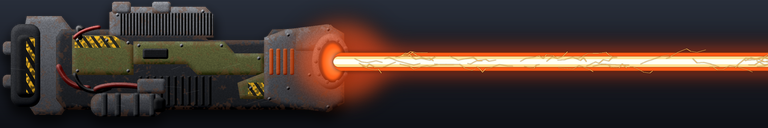
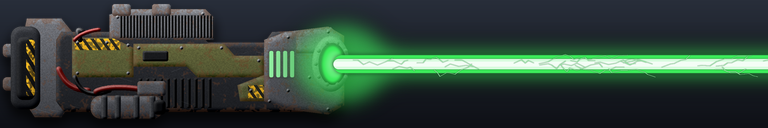
Renegade: weapon pictures for the three laser sizes (heavy green, medium blue, light red) from one drawn cannon (weapon_art.py), its body kept in weapon-images/source; spec and manual
Claude-Session: https://claude.ai/code/session_01QeCYKn7fqMf4y4C8NkAq1r

diff --git a/LevelEditor/test-data/tools/weapon_art.py b/LevelEditor/test-data/tools/weapon_art.py
@@ -1,13 +1,14 @@
 """Detailed pictures of weapons for the panel of Renegade, drawn with Pillow and numpy (no outside pictures, no AI): a metal body with bevelled plates, rust and scratches,
 hazard stripes, vents, cables and glowing parts.
 
-  python weapon_art.py [out_dir]    draws the heavy laser: weapon_laser-heavy_big.png (2900 x 700, transparent) and weapon_laser-heavy.png (the picture of a panel row: 768 x 128, the weapon and its beam over the whole width)
+  python weapon_art.py [out_dir]    draws the cannon once and makes the three sizes of the laser from it (heavy: green, medium: blue, light: red; weapon_laser-<size>.png, the picture of a panel row: 768 x 128)
+                                    and writes the body of the cannon as source/laser_cannon_body.png (default out_dir: LevelEditor/game-modes/weapon-images)
 """
 import math, os, random, sys
 import numpy as np
 from PIL import Image, ImageDraw, ImageFilter, ImageFont
 
-W, H = 2900, 700   # (wide: the beam runs far to the right, the banner of the panel row is 6 : 1)
+W, H = 4300, 800   # (wide: the beam runs far to the right, the banner of the panel row is 6 : 1)
 rng = np.random.default_rng(7)
 random.seed(7)
 
@@ -153,7 +154,8 @@ STEEL_T, STEEL_B = (132, 134, 140), (52, 54, 60)
 DARK_T, DARK_B = (58, 60, 66), (22, 24, 28)
 
 
-def heavy_laser():
+def gun_body():
+    """the laser cannon without its glow (the same body for every size; the beam and the glowing parts are added by beam_fx in the colour of the size)"""
     gun = np.zeros((H, W, 4), np.float32)
     cy = 420
 
@@ -224,7 +226,7 @@ def heavy_laser():
     muz = mask_of(poly([(1010, 330), (1090, 300), (1250, 280), (1310, 315), (1310, 575), (1250, 610), (1090, 590), (1010, 560)]))
     part(gun, muz, STEEL_T, STEEL_B, bevel=10, rust=0.14, spec=0.8)
     for x in (1030, 1056, 1082, 1108):
-        part(gun, mask_of(rrect((x, 372, x + 14, 470), 5)), (255, 140, 60), (200, 60, 24), bevel=2, grain=0.02)
+        part(gun, mask_of(rrect((x, 372, x + 14, 470), 5)), (70, 72, 78), (30, 32, 36), bevel=2, grain=0.02)
     cap = mask_of(poly([(1130, 300), (1260, 282), (1300, 322), (1300, 380), (1130, 380)]))
     part(gun, cap, (150, 152, 158), (70, 72, 78), bevel=8, rust=0.08)
     # the ring around the opening
@@ -253,41 +255,61 @@ def heavy_laser():
     out.alpha_composite(sh)
     out.alpha_composite(img)
 
-    # --- the glow inside the opening, the heat round it and the beam with its electric tendrils
+    return out
+
+
+def mix(c, white, k):
+    return tuple(int(c[i] + (white - c[i]) * k) for i in range(3))
+
+
+def beam_fx(body, color, k=1.0):
+    """the glow in the opening, the glowing vents, the heat and the beam with its electric tendrils in a colour; k = the thickness of the beam (1 = the heavy laser)"""
+    out = body.copy()
+    c1, c2, c3, c4 = color, mix(color, 255, 0.45), mix(color, 255, 0.8), mix(color, 255, 0.94)
+    # the glowing vents
+    gl_v = Image.new("RGBA", (W, H), (0, 0, 0, 0))
+    vd = ImageDraw.Draw(gl_v)
+    for x in (1030, 1056, 1082, 1108):
+        vd.rounded_rectangle((x, 372, x + 14, 470), radius=5, fill=c2 + (255,))
+    out.alpha_composite(gl_v.filter(ImageFilter.GaussianBlur(6)))
+    out.alpha_composite(gl_v)
+    # the glow in the opening
     glowl = Image.new("RGBA", (W, H), (0, 0, 0, 0))
     gd = ImageDraw.Draw(glowl)
-    gd.ellipse((1224, 350, 1310, 492), fill=(255, 120, 30, 255))
-    gd.ellipse((1240, 372, 1306, 472), fill=(255, 190, 90, 255))
-    gd.ellipse((1254, 392, 1306, 450), fill=(255, 245, 210, 255))
+    gd.ellipse((1224, 350, 1310, 492), fill=c1 + (255,))
+    gd.ellipse((1240, 372, 1306, 472), fill=c2 + (255,))
+    gd.ellipse((1254, 392, 1306, 450), fill=c3 + (255,))
     out.alpha_composite(glowl.filter(ImageFilter.GaussianBlur(5)))
+    # the heat round the muzzle and along the beam
     halo = Image.new("RGBA", (W, H), (0, 0, 0, 0))
     hd = ImageDraw.Draw(halo)
-    hd.ellipse((1100, 250, 1500, 590), fill=(255, 80, 20, 150))
-    hd.rectangle((1290, 352, W, 488), fill=(255, 70, 20, 170))
-    out.alpha_composite(halo.filter(ImageFilter.GaussianBlur(42)))
+    hd.ellipse((1100, 250, 1500, 590), fill=c1 + (150,))
+    hd.rectangle((1290, int(421 - 69 * k), W, int(421 + 69 * k)), fill=c1 + (170,))
+    out.alpha_composite(halo.filter(ImageFilter.GaussianBlur(42 * max(0.6, k))))
+    # the body of the beam, the hot core and the white centre
     bm = Image.new("RGBA", (W, H), (0, 0, 0, 0))
-    bd = ImageDraw.Draw(bm)
-    bd.rounded_rectangle((1270, 388, W + 40, 454), radius=33, fill=(255, 92, 22, 255))
-    out.alpha_composite(bm.filter(ImageFilter.GaussianBlur(7)))
+    ImageDraw.Draw(bm).rounded_rectangle((1270, int(421 - 33 * k), W + 40, int(421 + 33 * k)), radius=int(33 * k), fill=c1 + (255,))
+    out.alpha_composite(bm.filter(ImageFilter.GaussianBlur(7 * max(0.6, k))))
     out.alpha_composite(bm)
     core = Image.new("RGBA", (W, H), (0, 0, 0, 0))
     cd = ImageDraw.Draw(core)
-    cd.rounded_rectangle((1270, 402, W + 40, 440), radius=19, fill=(255, 226, 150, 255))
-    cd.rounded_rectangle((1270, 412, W + 40, 430), radius=9, fill=(255, 255, 245, 255))
+    cd.rounded_rectangle((1270, int(421 - 19 * k), W + 40, int(421 + 19 * k)), radius=int(19 * k), fill=c3 + (255,))
+    cd.rounded_rectangle((1270, int(421 - 9 * k), W + 40, int(421 + 9 * k)), radius=int(9 * k), fill=c4 + (255,))
     out.alpha_composite(core.filter(ImageFilter.GaussianBlur(2)))
     out.alpha_composite(core)
     # lightning tendrils along the beam
+    r = random.Random(11)
     tend = Image.new("RGBA", (W, H), (0, 0, 0, 0))
     td = ImageDraw.Draw(tend)
-    for _ in range(34):
-        x = random.randint(1300, W - 20)
-        y = 421 + random.randint(-22, 22)
+    for _ in range(int(34 * W / 2900)):
+        x = r.randint(1300, W - 20)
+        y = 421 + int(r.randint(-22, 22) * k)
         pts = [(x, y)]
-        for _ in range(random.randint(4, 8)):
-            x += random.randint(10, 34)
-            y += random.randint(-16, 16)
+        for _ in range(r.randint(4, 8)):
+            x += r.randint(10, 34)
+            y += int(r.randint(-16, 16) * k)
             pts.append((x, y))
-        td.line(pts, fill=(255, 190, 90, 255), width=2)
+        td.line(pts, fill=c2 + (255,), width=2)
     out.alpha_composite(tend.filter(ImageFilter.GaussianBlur(1.4)))
     out.alpha_composite(tend)
     return out
@@ -320,13 +342,14 @@ def panel_icon(big, size=(256, 128)):
     return card
 
 
-def panel_banner(big, size=(768, 128)):
-    """the picture of a panel row: the weapon and its beam over the whole width (6 : 1) on a dark background; the row puts text and the cooldown on top of it"""
-    crop = big.crop((20, 190, W, 190 + (W - 20) // 6))
+def panel_banner(big, crop_width, size=(768, 128)):
+    """the picture of a panel row: the weapon and its beam over the whole width (6 : 1) on a dark background; the row puts text and the cooldown on top of it. crop_width: how much of the
+    picture is shown (the more, the smaller the weapon in the row)"""
+    h = crop_width // 6
+    crop = big.crop((20, 421 - h // 2, 20 + crop_width, 421 + h // 2))
     bg = gradient_bg(size)
-    k = size[0] / crop.width
-    ic = crop.resize((size[0], int(crop.height * k)), Image.LANCZOS)
-    bg.alpha_composite(ic, (0, (size[1] - ic.height) // 2))
+    ic = crop.resize(size, Image.LANCZOS)
+    bg.alpha_composite(ic, (0, 0))
     return bg.convert("RGB")
 
 
@@ -336,16 +359,22 @@ def gradient_bg(size):
     return out
 
 
+# the sizes: name, beam colour, thickness of the beam, the width of the picture that the row shows (the weapon is smaller in a row of a light weapon)
+SIZES = [("laser-heavy", (60, 235, 90), 1.0, 2880), ("laser-medium", (70, 150, 255), 0.72, 3300), ("laser-light", (255, 70, 40), 0.45, 3900)]
+
+
 def main():
-    out = sys.argv[1] if len(sys.argv) > 1 else os.path.join(os.path.dirname(os.path.abspath(__file__)), "weapon-icons")
-    os.makedirs(out, exist_ok=True)
-    big = heavy_laser()
-    bg = Image.new("RGBA", big.size, (28, 28, 30, 255))
-    bg.alpha_composite(big)
-    big.save(os.path.join(out, "weapon_laser-heavy_big.png"))
-    bg.convert("RGB").resize((W // 2, H // 2), Image.LANCZOS).save(os.path.join(out, "weapon_laser-heavy_big_on_dark.png"))
-    panel_banner(big).save(os.path.join(out, "weapon_laser-heavy.png"))
-    print("done")
+    here = os.path.dirname(os.path.abspath(__file__))
+    out = sys.argv[1] if len(sys.argv) > 1 else os.path.join(os.path.dirname(os.path.dirname(here)), "game-modes", "weapon-images")
+    src = os.path.join(out, "source")
+    os.makedirs(src, exist_ok=True)
+    body = gun_body()
+    # the picture of the cannon without glow: the source of the pictures of the sizes (drawn by this file, kept to look at it)
+    body.crop((20, 190, 1330, 660)).save(os.path.join(src, "laser_cannon_body.png"))
+    for name, color, k, cw in SIZES:
+        big = beam_fx(body, color, k)
+        panel_banner(big, cw).save(os.path.join(out, "weapon_%s.png" % name))
+        print("weapon_%s.png" % name)
 
 
 if __name__ == "__main__":

diff --git a/specs/renegade.md b/specs/renegade.md
@@ -55,7 +55,7 @@ Parameters (gadget -> widget): team rules `renUnit` (the unit, 0 = none), `renRe
 - **Gunships:** the guns are fixed to the body, so the player has to fly so that the nose points at the target (the aircraft turns toward where it moves). The unit gets no move order from firing (a `faceTarget` that turned it with short move orders was taken out: it disturbed the flying). `SetUnitRotation` has no effect on aircraft (neither yaw nor pitch: the move type overwrites it every frame; measured), so the body cannot be tilted toward the view; see the steepness limit below.
 - **Height of an aircraft (`lift` in the gadget, altimeter in the widget):** keys bit 16 (Space, polled with `GetKeyState(32)`) = higher, bit 32 (Ctrl, `GetModKeyState`) = lower; the message carries 0 to 63. **Landing:** with the lower key (Ctrl) held all the way down (`MIN_ALT` 4; the aircraft stops at about 12 Elmo) for `LAND_HOLD` 60 frames (2 s) it lands (`CMD.STOP` and idle mode 1; the height goes to 0 within a second); the next key other than Ctrl takes it off again (measured with `zz_ren28.lua`: from 426 down to 12 in about 6 s, landed at 0, W took it up to 430 and settled at 400). **Terrain following (`followGround` in the gadget):** the move type of an aircraft follows the ground only slowly, so every frame the height it should have is worked out (wished height `inp.alt` above the ground under it when going down; above the highest ground in the next second, 3 samples of 20 frames of its velocity, when going up) and its vertical speed is pushed toward it with `SetUnitVelocity` (at most `FOLLOW_MAX` 4 Elmo a frame, only in the needed direction; not while Space or Ctrl are held, not for 45 frames after letting them go, not on the ground; no climbing when it is already at its highest height over the ground). Measured with `zz_ren34.lua` (bomber armthund, W held, over a cliff from ground 4 to 202 and back on Hooked 1.1): after the take-off it stays at 393-408 above the ground, over the cliff it climbs ahead of it (peak 488, under the highest height 495) and is back at about 400 within 1-2 s, down the cliff it sinks (peak 467 over the lower ground, then 393-408). The vertical speed of a fixed-wing aircraft takes the push only partly (the engine sets it too), the result is as described.
 - **Bombs are dropped by the gadget (`dropBombs`, `processBombs`):** the engine's bomb weapon fires only when the aircraft is low (measured with `zz_ren36.lua` / `zz_ren37.lua`, see below), so a button press drops the salvo itself: `salvoSize` x `projectiles` bombs, `salvoDelay` apart (Tsunami: 5 bombs, 5 frames apart, reload 7 s), each with `Spring.SpawnProjectile(weaponDef, { pos = unit position - 8 in height, speed = the unit's velocity, owner, team, ttl = 1200, gravity = -myGravity })` (without `gravity` the bombs fly straight on, measured; `myGravity` of the Tsunami's bomb is 0.4, not the map gravity 0.133; the five bombs of `zz_ren38.lua` all fall and explode after about 50 frames, at the predicted place within about 10 Elmo). The reload is set with `SetUnitWeaponState(reloadFrame)` (the panel shows it), a button that stays down drops the next salvo as soon as it is ready, the weapon gets no target (so the engine's own release stays quiet). The preview in the widget uses the same `myGravity`. At any height one click is enough. Earlier finding (the reason): (measured with `zz_ren36.lua`, Tsunami armsb, weapon `armsb_arm_seaadvbomb`: AircraftBomb, range 1280, onlyForward, maxAngleDif -1):** with the left button held at 340-550 above the ground the weapon does not fire (40 frames); it fires only when the aircraft has sunk to about 110-150 above the ground (frame 650 at height 106 in one run, frame 629 at about 150 in another); the same with the trigger target directly under the aircraft instead of the landing point (`bombPoint`), so it is not the position of the target. Not known why (the engine's bomb dropper); to decide: a hint on the crosshair (too high to bomb) or release the bombs by hand with `Spring.SpawnProjectile` (position, the unit's velocity, owner; reload, salvo and the reload bar to be done by the gadget).
-- **Pictures of the weapons (panel):** the categories of `renegade-weapon-categories.md` (made by `test-data/tools/weapon_categories.py`) get a picture each: `LevelEditor/game-modes/weapon-images/weapon_<category>.png` (the picture of a whole panel row, 6 : 1, 768 x 128 is what `weapon_art.py` writes: the weapon and its beam over the whole width on a dark background; drawn by `test-data/tools/weapon_art.py` with Pillow and numpy, or delivered from outside: any png with that name). So far only `laser-heavy` exists. `renegade_weapons.py update` writes the table `WEAPON_PICS` (unit code, weapon number, category) of the gadget for the categories that have a file; the gadget publishes it per unit as the rules parameter `renPics` (`<weapon number>=<picture>,...`); the widget (`weaponPicture`) loads `LuaUI/Images/renegade/weapons/weapon_<picture>.png` (`VFS.FileExists`, cached) and draws it over the whole width of the row as its background (with a picture in any row the panel is 372 wide, 6 : 1 like the picture). **A row** (`panel`): a dark card; the picture at 92% over it; a dark veil that fades from the left (behind the text); the colour of the range (green, yellow, red) at 30%; the **cooldown like the abilities of Evolution**: a grey fill (80%) from the right whose width is the part of the reload that is left, with the seconds left as a number at the bottom right (no reload bar any more); a strip in the colour of the button at the left; in front: the name (white, outlined), the button (`LMB`, in its colour) and, for an anti-air weapon, `AIR ONLY` at the right, below the name `range N   reload T s` (a bomber: `drops below N m (now M m)   reload T s`). The pictures go into the extra game (`Write-ScenarioGame` in `bar_common.ps1` adds every `weapon_*.png` of `game-modes/weapon-images` next to the scripts folder as a binary entry `luaui/Images/renegade/weapons/<file>`; `Write-GameZip` takes byte arrays; the pictures are part of the hash of the game name). Measured: Titan (armbanth) in the sandbox shows the picture at its two lasers (`zz_ren43.lua`: `renPics 1=laser-heavy,2=laser-heavy`, file found).
+- **Pictures of the weapons (panel):** the categories of `renegade-weapon-categories.md` (made by `test-data/tools/weapon_categories.py`) get a picture each: `LevelEditor/game-modes/weapon-images/weapon_<category>.png` (the picture of a whole panel row, 6 : 1, 768 x 128 is what `weapon_art.py` writes: the weapon and its beam over the whole width on a dark background; drawn by `test-data/tools/weapon_art.py` with Pillow and numpy, or delivered from outside: any png with that name). So far the three lasers exist: `laser-heavy` (green beam), `laser-medium` (blue), `laser-light` (red); `weapon_art.py` draws the cannon once (`gun_body`, a 2D drawing with shading, not a 3D model; its body is kept as `weapon-images/source/laser_cannon_body.png`) and makes the sizes with `beam_fx` (colour, thickness of the beam) and a different part of the picture in the row (`SIZES`: the lighter the weapon, the smaller it is in the row). Measured with the Bulwark (cordoom: `renPics 1=laser-heavy,2=laser-medium,3=laser-light`, rows red, blue, green). The `source` folder is not packed into the game (only `weapon_*.png` of the folder itself). `renegade_weapons.py update` writes the table `WEAPON_PICS` (unit code, weapon number, category) of the gadget for the categories that have a file; the gadget publishes it per unit as the rules parameter `renPics` (`<weapon number>=<picture>,...`); the widget (`weaponPicture`) loads `LuaUI/Images/renegade/weapons/weapon_<picture>.png` (`VFS.FileExists`, cached) and draws it over the whole width of the row as its background (with a picture in any row the panel is 372 wide, 6 : 1 like the picture). **A row** (`panel`): a dark card; the picture at 92% over it; a dark veil that fades from the left (behind the text); the colour of the range (green, yellow, red) at 30%; the **cooldown like the abilities of Evolution**: a grey fill (80%) from the right whose width is the part of the reload that is left, with the seconds left as a number at the bottom right (no reload bar any more); a strip in the colour of the button at the left; in front: the name (white, outlined), the button (`LMB`, in its colour) and, for an anti-air weapon, `AIR ONLY` at the right, below the name `range N   reload T s` (a bomber: `drops below N m (now M m)   reload T s`). The pictures go into the extra game (`Write-ScenarioGame` in `bar_common.ps1` adds every `weapon_*.png` of `game-modes/weapon-images` next to the scripts folder as a binary entry `luaui/Images/renegade/weapons/<file>`; `Write-GameZip` takes byte arrays; the pictures are part of the hash of the game name). Measured: Titan (armbanth) in the sandbox shows the picture at its two lasers (`zz_ren43.lua`: `renPics 1=laser-heavy,2=laser-heavy`, file found).
 - **Attack altitude (column of `renegade_cruise.csv`, table `ATTACK_ALT` of the gadget, rules parameter `renAttackAlt`):** a bomber (an aircraft whose bomb is on a mouse button: 13 of them) drops its bombs only up to this height above the ground (`dropBombs` returns false above it, nothing falls); the panel row of the bomb is green up to it, yellow up to 15% above it, red higher, and says "drops below N m (now M m)". Empty = no limit. The value is the cruise altitude of the definition as a start (a second measurement of the engine's own release with the landing point as target gave 341-406 above the ground for armstil, armthund, corshad and legspbomber at once, 21-159 for others and nothing for armthundt4, cords, corhurc and legkam: it depends on the target and the heading, so no value could be taken from it; the Tsunami's first measurement of about 190-200 fits its cruise altitude 210). Measured with `zz_ren41.lua` (Tsunami, attack altitude 210): a click at 463 above the ground drops nothing (row red), at 213 the row is yellow, under 210 green, a click at 185 drops 5 bombs.
 - **Own release over all bombers (`zz_ren40.lua`, one click of 3 frames at the flying height 240-444 above the ground, Hooked 1.1):** 13 of the 15 aircraft with an `AircraftBomb` weapon dropped their salvo (110 explosions in all, bombs land on the ground; salvo sizes 1 to 28: armlichet4 1 with reload 120 s, armsb 5, armthund 5, armthundt4 28, corsb 24, legspbomber 24, legkam 1 (kamikaze), legnap 4 ...). The other two have no bomb on a button by design: legmineb (a mine layer, damage 0, empty Fire button) and legphoenix (its bomb weapon is a targeting dummy; its button weapon is the flame beam).
 - **Engine bomb release over all bombers (`zz_ren39.lua`, `ren|test|4` = the engine's own release with the ground under the aircraft as target, descending with Ctrl):** 15 aircraft with an `AircraftBomb` weapon; fired at: armpnix 53, armsb 16, armthund 5, armthundt4 190, cords 36, corhurc 40, corshad 44, legnap 202 above the ground; no release at all for armlichet4, armstil, corsb, legkam, legmineb, legphoenix, legspbomber within 300 frames. So the engine's release height is not a property of the unit: it depends on where the target lies (with the landing point ahead as target the Tsunami fired under about 190-200, with the ground right under it under about 16) and cannot be used as the highest height (which stays 3 times the cruise altitude, `renegade_cruise.csv`); our own release (above) works at every height.

diff --git a/LevelEditor/game-modes/renegade.md b/LevelEditor/game-modes/renegade.md
@@ -34,7 +34,7 @@ A game mode in the making: **you are one unit of Beyond All Reason, seen from th
 - **The turret follows your view**, also when you do not fire (the line on the ground shows where it points): when you press the button it fires as soon as it points where you look. A small thick **green arrow** on the ground in front of you shows the way the unit faces, i.e. the way it walks or drives when you press W (a tank turns first when you look behind you). For a turret, which cannot move, the arrow shows where its gun points.
 - **Panel** at the bottom: your health, then one row for every button group with the weapon's name, LMB / RMB / MMB, range, reload time and a **reload bar** in the color of the button (full = ready to fire).
 - Which weapons are on which button: weapons of the same kind fire together; the short range ones are on the left, the long range ones on the right, missiles in the middle (Titan: impulsion blaster, long-range laser, starburst rocket; Epoch: medium plasma, heavy plasma, anti-air missiles). Exception: the **commander's Disintegrator** (D-gun) is always on the right button, the laser on the left. Three buttons are enough for every unit of the game. The full list of all weapons of all units with the proposal of the buttons, which you can change, is in [renegade-weapons.md](renegade-weapons.md); to change it edit `renegade_weapons.csv` (Excel) and double-click `update_renegade_weapons.bat` in the same folder (it updates the page and the game file). Hold the button for continuous fire (as fast as the weapon reloads); one click is **one shot**: the weapon turns to the aim and fires once, even if you let go at once. Let go of the button and the unit stops firing. If your unit is lost, a big **respawn countdown** (5 to 1) shows and you come back as the same unit at a place far from the enemies.
-- **Weapon pictures:** a weapon of the panel has its picture as the background of its whole row when its category has one (the name and the button stand in front of it; there is no reload bar any more: while the weapon reloads a grey fill runs down from the right and the seconds left count at the bottom right, like the abilities of Evolution) (`weapon-images` in this folder: `weapon_<category>.png`; the categories are in `renegade-weapon-categories.md`). So far the heavy laser has one; put more pictures with that name into the folder, run `update_renegade_weapons.bat` and start the game again.
+- **Weapon pictures:** a weapon of the panel has its picture as the background of its whole row when its category has one (the name and the button stand in front of it; there is no reload bar any more: while the weapon reloads a grey fill runs down from the right and the seconds left count at the bottom right, like the abilities of Evolution) (`weapon-images` in this folder: `weapon_<category>.png`; the categories are in `renegade-weapon-categories.md`). So far the three lasers have one (heavy green, medium blue, light red); put more pictures with that name into the folder, run `update_renegade_weapons.bat` and start the game again.
 - **Bombers:** one click drops the whole salvo of bombs (the bombs are dropped by the game mode); hold the button and the next salvo comes as soon as the weapon is ready (the bar in the panel shows the reload). Bombs fall only when you fly **lower than the attack altitude** of the aircraft (column Attack altitude in `renegade_cruise.csv`, as a start the cruise altitude of the unit definition): the row of the bomb in the panel is **green** up to it, **yellow** just above it and **red** higher, and says "drops below N m (now M m)".
 - **Impact preview**: for artillery, rockets and missiles a translucent disc with a ring and a cross shows on the ground where the shot comes down (the size of the explosion, in the color of the button; as far as the weapon reaches). Aim at the ground a bit ahead of a moving enemy to lead the shot. A bomber gets the same disc where its bombs would land if it dropped them now (ahead of the aircraft, as far as its speed carries them); press the button and the bombs fall at once, onto that disc.
 - You can **always fire**, also into the sky or at far mountains: the shot goes where the crosshair points, as far as the weapon reaches, and the weapon's own reload is the only limit. Nothing is "targeted" as in the strategy game (only anti-air missiles need the aircraft in the crosshair).
